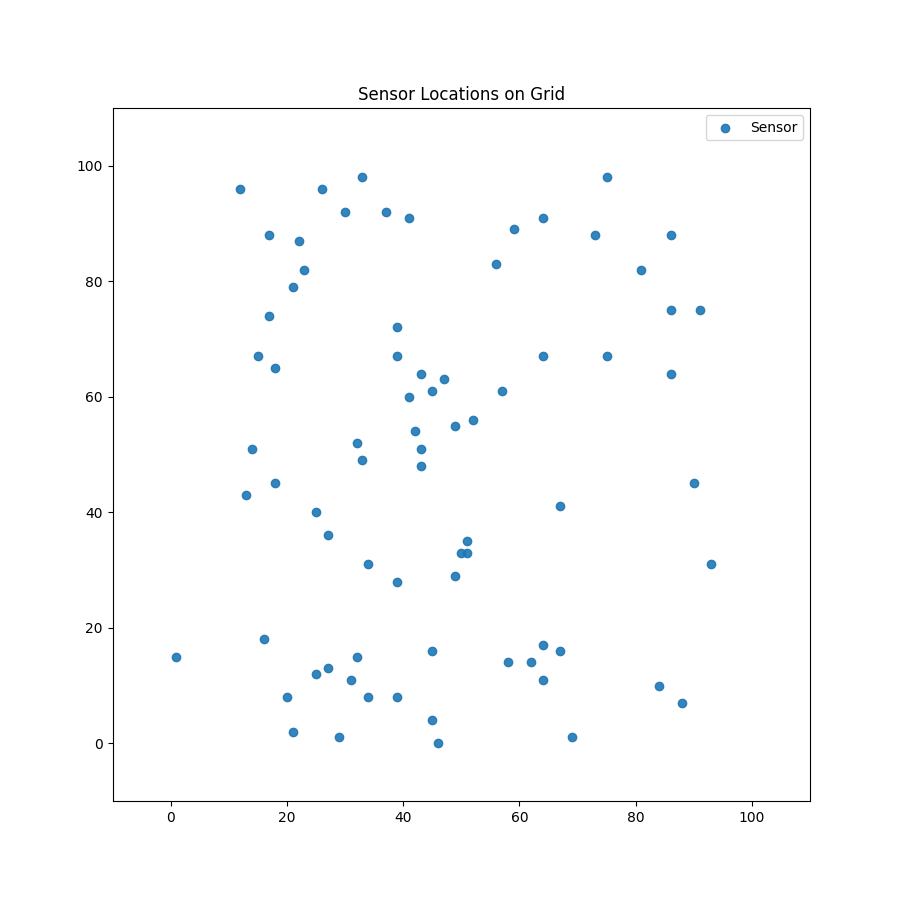
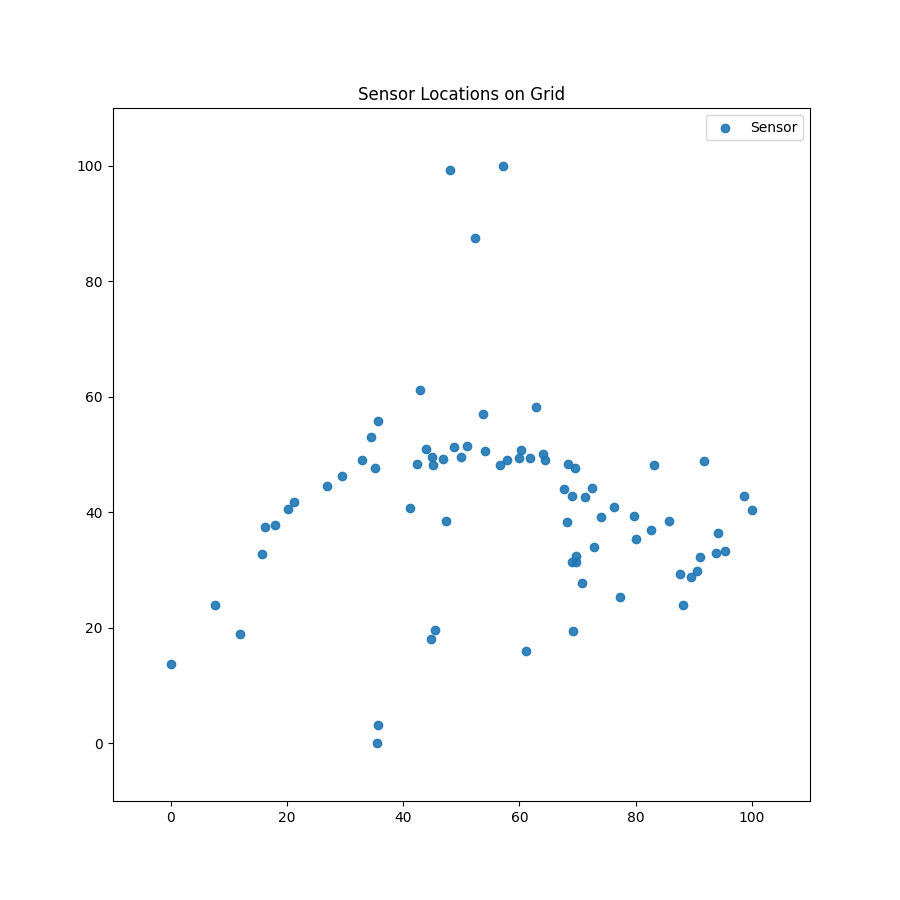
running on ergene river

diff --git a/functions/helpers.py b/functions/helpers.py
@@ -44,7 +44,7 @@ def get_max_min_locations(sensor_set:set) -> tuple:
     return max_x, max_y, min_x, min_y
 
 
-def calculate_distance(point1:tuple, point2:tuple) -> int:
+def calculate_distance(point1:tuple, point2:tuple) -> float:
     """
         Description:
             Calculates the distance between two points
@@ -54,12 +54,11 @@ def calculate_distance(point1:tuple, point2:tuple) -> int:
             - point2 : `tuple` second point
 
         Returns:
-            - `int` : ceil integer of the calculated
-            (float) distance
+            - `int` : distance between two points
     """
     x1, y1 = point1
     x2, y2 = point2
-    return int(np.ceil(np.sqrt((x1-x2)**2 + (y1-y2)**2)))
+    return np.ceil(np.sqrt((x1-x2)**2 + (y1-y2)**2))
     
 
 def calculate_avg_score(gateway_point:tuple, sensor_set:set, distance_threshold:int) -> float:
@@ -100,7 +99,7 @@ def connect_nodes(sensor_set:set, gateway_set:set, distance_threshold:int) -> No
 
         Argunments:
             - sensor_set : `set` set storing the `Sensor` nodes
-            - gateway_set : `set` set stroing the `Gateway` nodes
+            - gateway_set : `set` set storing the `Gateway` nodes
             - distance_threshold : `int` upper limit of distance
             between nodes so that can communicate
     """
@@ -109,3 +108,20 @@ def connect_nodes(sensor_set:set, gateway_set:set, distance_threshold:int) -> No
     
     for gateway in gateway_set:
         gateway.find_covered_sensors(sensor_set, distance_threshold)
+
+
+def get_top_sensors(sensor_set:set, n_sensors:int) -> set:
+    """
+        Description:
+            Gets top `n` sensors with the highest score
+            from the `Sensor` objects placed on `Grid`
+
+        Arguments:
+            - sensor_set : `set` set storing the `Sensor` nodes
+            - n_sensors : `int` number of sensors to get
+
+        Return:
+            - `set` : set of `n` sensors with the highest score
+    """
+    sorted_set = sorted(sensor_set, key = lambda sensor: sensor.get_score(), reverse=True)
+    return sorted_set[:n_sensors]

diff --git a/main.py b/main.py
@@ -11,31 +11,25 @@ from functions import visualizer
 parser = argparse.ArgumentParser(description='ILP Sensor Clustering - Clustering of sensors using Integer Linear Programming concept')
 parser.add_argument('--size', required=False, default=100, type=int)
 parser.add_argument('--sensor_count', required=False, default=75, type=int)
-parser.add_argument('--distance_threshold', required=False, default=15, type=float)
-parser.add_argument('--max_score', required=False, default=10, type=int)
-parser.add_argument('--min_score', required=False, default=1, type=int)
+parser.add_argument('--distance_threshold', required=False, default=13, type=float)
 
 
 args = vars(parser.parse_args())
 GRID_SIZE = args['size']
 SENSOR_COUNT = args['sensor_count']
 DISTANCE_THRESHOLD = args['distance_threshold']
-MAX_SCORE = args['max_score']
-MIN_SCORE = args['min_score']
 
 
 if __name__=='__main__':
     # ___Random Initializing___
-    grid = Grid(GRID_SIZE)
-    sensor_set = preprocessing.generate_random_sensors(GRID_SIZE, SENSOR_COUNT, MAX_SCORE, MIN_SCORE)
+    #grid = Grid(GRID_SIZE)
+    #sensor_set = preprocessing.generate_random_sensors(GRID_SIZE, SENSOR_COUNT, MAX_SCORE, MIN_SCORE)
     
     # ___Initializing Through File___
-    #grid = Grid(GRID_SIZE)
-    #sensor_set = preprocessing.init_sensors_from_file('docs/input/sensor_locations.tsv')
-    #preprocessing.set_sensor_scores(sensor_set, 'docs/input/sensor_placements.csv')
-    #preprocessing.normalize_sensor_locations(sensor_set, GRID_SIZE)
-    
-    visualizer.show_locations("Sensor", sensor_set, grid, 'docs/output/img/sensor_placement.png')
+    grid = Grid(GRID_SIZE)
+    sensor_set = preprocessing.init_sensors_from_file('docs/input/sensor_locations.tsv')
+    preprocessing.set_sensor_scores(sensor_set, 'docs/input/sensor_placements.csv')
+    preprocessing.normalize_sensor_locations(sensor_set, GRID_SIZE)
 
     # ___Building The Model___
     generated_model, gateway_locations = clustering.generate_model(grid)

diff --git a/functions/visualizer.py b/functions/visualizer.py
@@ -96,6 +96,11 @@ def show_grid(sensor_set:set, gateway_set:set, grid:Grid, distance_threshold:int
         sensor_x_data.append(sensor.get_x())
         sensor_y_data.append(sensor.get_y()) 
 
+    hot_sensor_x_data, hot_sensor_y_data = list(), list()
+    for hot_sensor in helpers.get_top_sensors(sensor_set, 15):
+        hot_sensor_x_data.append(hot_sensor.get_x())
+        hot_sensor_y_data.append(hot_sensor.get_y())
+
     plt.scatter(
         gateway_x_data, gateway_y_data,
         label="Gateways", marker='o', s=50)
@@ -104,9 +109,13 @@ def show_grid(sensor_set:set, gateway_set:set, grid:Grid, distance_threshold:int
         sensor_x_data, sensor_y_data,
         label="Sensors", marker='x', s=20)
 
+    plt.scatter(
+        hot_sensor_x_data, hot_sensor_y_data,
+        label="Sensors on Fire!", marker="x", s=20, color='red')
+
     for gateway in gateway_set:
-        gateway_point = (gateway.get_x(), gateway.get_y())
-        for sensor in sensor_set:
+        for sensor in gateway.get_covered_sensors():
+            gateway_point = (gateway.get_x(), gateway.get_y())
             sensor_point = (sensor.get_x(), sensor.get_y())
             if helpers.calculate_distance(gateway_point, sensor_point) <= distance_threshold:
                 x_data = [gateway.get_x(), sensor.get_x()]
@@ -114,7 +123,7 @@ def show_grid(sensor_set:set, gateway_set:set, grid:Grid, distance_threshold:int
 
                 plt.plot(
                     x_data, y_data,
-                    color="g", alpha=sensor.get_score()/10,
+                    color="g", alpha=sensor.get_score(),
                     linestyle='-', linewidth=1)
             
     plt.legend()

diff --git a/functions/preprocessing.py b/functions/preprocessing.py
@@ -5,7 +5,7 @@ from . import helpers
 from structs import Sensor
 
 
-def generate_random_sensors(size:int, sensor_count:int, max_score:int, min_score:int) -> set:
+def generate_random_sensors(size:int, sensor_count:int) -> set:
     """
         Description:
             Generates sensors with random x and y locations
@@ -27,7 +27,7 @@ def generate_random_sensors(size:int, sensor_count:int, max_score:int, min_score
             id=str(id),
             x=np.random.randint(0, size),
             y=np.random.randint(0, size),
-            score=np.random.randint(min_score, max_score+1))
+            score=np.random.rand())
         sensor_set.add(new_sensor)
 
     return sensor_set
@@ -79,7 +79,7 @@ def init_sensors_from_file(file_path:str) -> set:
                 id=sensor_id,
                 x=long_as_float,
                 y=lat_as_float,
-                score=np.random.rand())
+                score=np.random.rand()*(0.59-0.17)+0.17)
 
             sensor_set.add(new_sensor)
 
@@ -106,7 +106,7 @@ def set_sensor_scores(sensor_set:set, file_path:str) -> None:
             sensor_id = row[1]
             #sensor_number = row[2]
             #sensor_cost = row[3]
-            sensor_score = row[4]
+            sensor_score = float(row[4])
             
             for sensor in sensor_set:
                 if sensor.get_id() == sensor_id:

diff --git a/structs/node.py b/structs/node.py
@@ -1,7 +1,7 @@
 import numpy as np
 
 
-def calculate_distance(point1:tuple, point2:tuple) -> int:
+def calculate_distance(point1:tuple, point2:tuple) -> float:
     """
         Description:
             Calculates the distance between two points
@@ -11,12 +11,11 @@ def calculate_distance(point1:tuple, point2:tuple) -> int:
             - point2 : `tuple` second point
 
         Returns:
-            - `int` : ceil integer of the calculated
-            (float) distance
+            - `float` : distance between two points
     """
     x1, y1 = point1
     x2, y2 = point2
-    return int(np.ceil(np.sqrt((x1-x2)**2 + (y1-y2)**2)))
+    return np.sqrt((x1-x2)**2 + (y1-y2)**2)
 
 
 class Node:

diff --git a/functions/clustering.py b/functions/clustering.py
@@ -61,7 +61,7 @@ def develop_model(model:mip.model.Model, grid:Grid, sensor_set:set, gateway_loca
 
     neg_avg_score_condition = lambda x1, y1, set : not helpers.calculate_avg_score(
             (x1, y1), set, distance_threshold
-        ) >= 4
+        ) >= 0.3
 
     # Aim is to minimize the total number of gateways
     # covering the sensors placed on the grid
